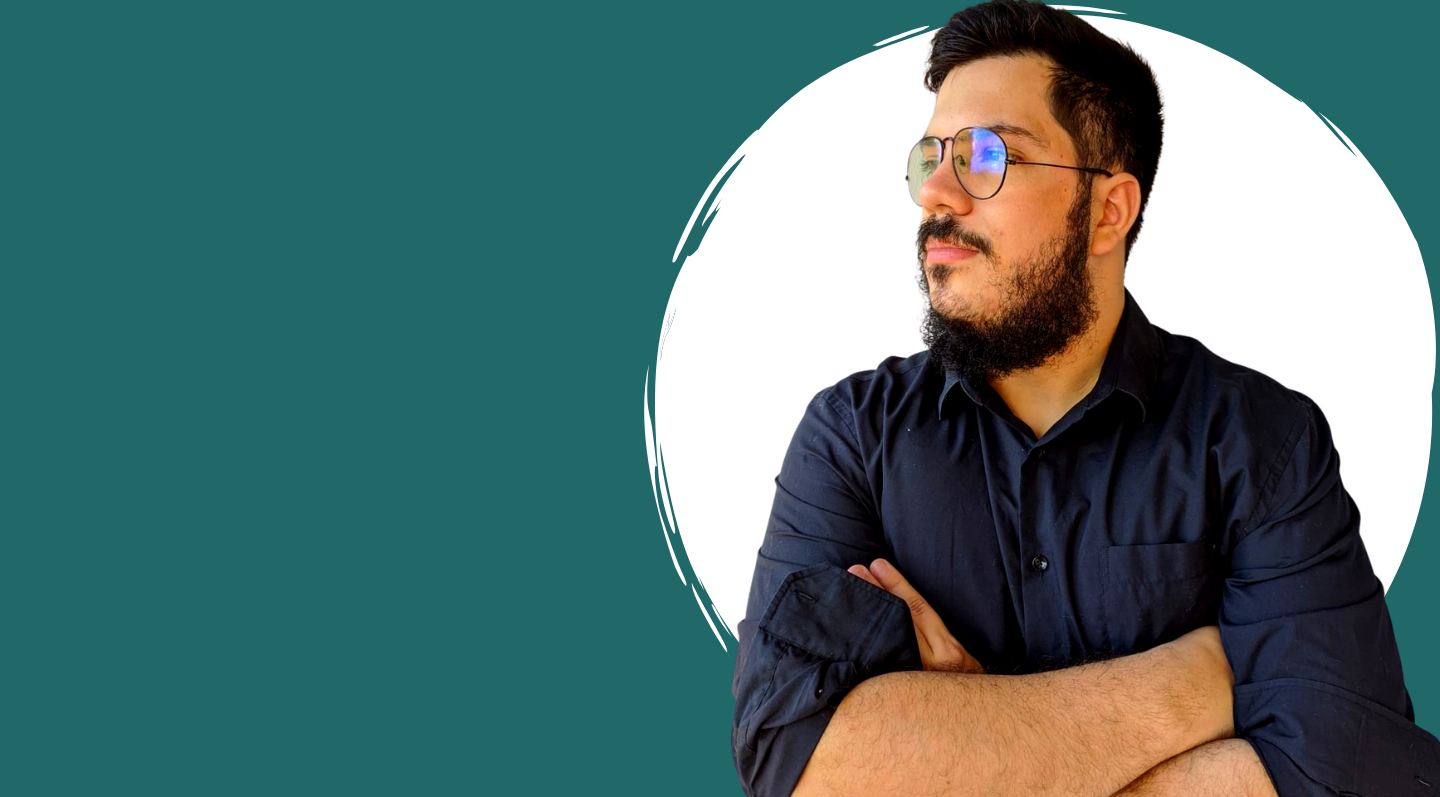
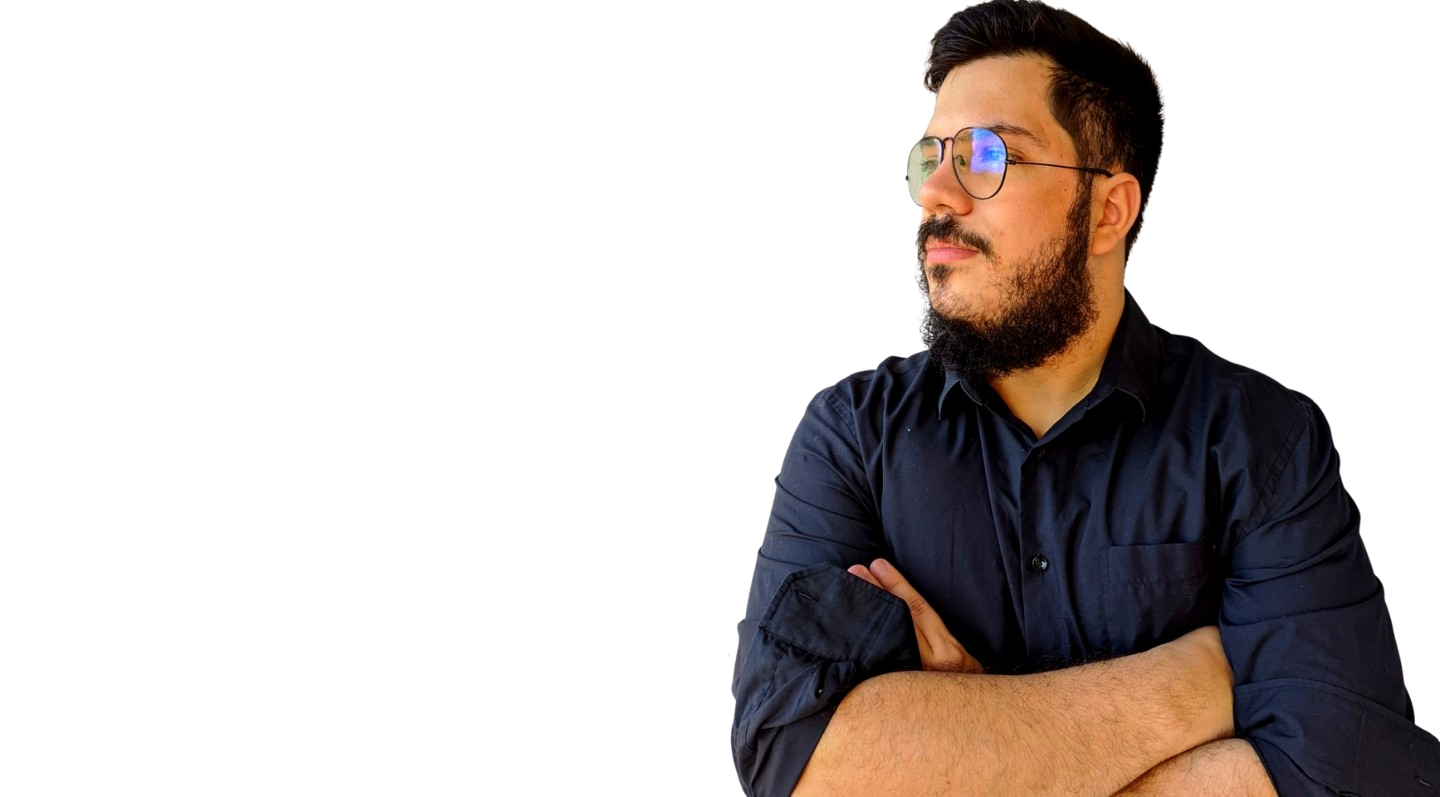
Feat: restyled and add colors variables

diff --git a/index.html b/index.html
@@ -10,6 +10,7 @@
         <link rel="preconnect" href="https://fonts.gstatic.com" crossorigin>
         <link href="https://fonts.googleapis.com/css2?family=Fira+Code:wght@300;500&display=swap" rel="stylesheet">
         <link href="https://fonts.googleapis.com/css2?family=Press+Start+2P&display=swap" rel="stylesheet">
+        <link href="https://fonts.googleapis.com/css2?family=Source+Code+Pro:ital,wght@0,200;0,300;0,400;0,500;0,600;0,700;0,800;0,900;1,200;1,300;1,400;1,500;1,600;1,700;1,800;1,900&display=swap" rel="stylesheet">
         
         <link rel="stylesheet" href="./css/components/main-title.css">
         <link rel="stylesheet" href="./css/components/main-subtitle.css">
@@ -32,6 +33,7 @@
         <link rel="stylesheet" href="./css/components/form-ctc.css">
         <link rel="stylesheet" href="./css/components/main-input.css">
         <link rel="stylesheet" href="./css/components/main-footer.css">
+        <link rel="stylesheet" href="./css/color-variables.css">
     </head>
     
     <body>
@@ -46,7 +48,7 @@
                     </select>
                     <img class="lang-logo" src="./assets/img/brasil.webp">
                 </div>
-                <a class="main-action" href="#skills" lang="en">Skills</a>
+                <a class="main-action" href="#skills">Habilidades</a>
                 <a class="main-action" href="#projects">Projetos</a>
                 <a class="main-action" href="#abt">Sobre</a>
                 <a class="main-action" href="#footer">Contatos</a>
@@ -68,7 +70,7 @@
         </section>
 
         <section class="main-section" id="skills">
-            <h2 class="main-title -second">Skills</h2>
+            <h2 class="main-title -second">Habilidades</h2>
             <div class="wrapper-skill">
 
                 <article class="skill-tec">  
@@ -105,7 +107,7 @@
                     <h2 class="project-name">Portfólio</h2>
                 </a>
                 <a href="https://github.com/Fabianno-Otavio/weather_now">
-                    <figure class="card-prj -blue">
+                    <figure class="card-prj">
                         <img class="imgprj -imgbd" src="./assets/img/weather_now.png" alt="Logo Weather Now">
                     </figure>
                     <h2 class="project-name">Weather Now</h2>

diff --git a/index-en.html b/index-en.html
@@ -10,6 +10,7 @@
         <link rel="preconnect" href="https://fonts.gstatic.com" crossorigin>
         <link href="https://fonts.googleapis.com/css2?family=Fira+Code:wght@300;500&display=swap" rel="stylesheet">
         <link href="https://fonts.googleapis.com/css2?family=Press+Start+2P&display=swap" rel="stylesheet">
+        <link href="https://fonts.googleapis.com/css2?family=Space+Mono:ital,wght@0,400;0,700;1,400;1,700&display=swap" rel="stylesheet">
         
         <link rel="stylesheet" href="./css/components/main-title.css">
         <link rel="stylesheet" href="./css/components/main-subtitle.css">
@@ -32,6 +33,7 @@
         <link rel="stylesheet" href="./css/components/form-ctc.css">
         <link rel="stylesheet" href="./css/components/main-input.css">
         <link rel="stylesheet" href="./css/components/main-footer.css">
+        <link rel="stylesheet" href="./css/color-variables.css">
     </head>
     
     <body>
@@ -105,7 +107,7 @@
                     <h2 class="project-name">Portfolio</h2>
                 </a>
                 <a href="https://github.com/Fabianno-Otavio/weather_now">
-                    <figure class="card-prj -blue">
+                    <figure class="card-prj">
                         <img class="imgprj" src="./assets/img/weather_now.png" alt="Logo Weather Now">
                     </figure>
                     <h2 class="project-name">Weather Now</h2>

diff --git a/css/components/main-section.css b/css/components/main-section.css
@@ -1,18 +1,18 @@
 .main-section{
-    background-color: #B8252B;
-    border-bottom: 10px solid #000;
+    background-color: var(--secondary-color);
+    border-bottom: 10px solid var(--border-section);
     position:relative;
     padding: 50px 50px 116px 50px;
 }
 
 .main-section.-projects{
-    background-color: #216869 ;
-    border-bottom: 10px solid #000;
+    background-color: var(--primary-color) ;
+    border-bottom: 10px solid var(--border-section);
 }
 
 .main-section.-about{
-    background-color: #B8252B;
-    border-bottom:10px solid #000;
+    background-color: var(--secondary-color);
+    border-bottom:10px solid var(--border-section);
     padding:50px 80px 66px 80px;
     position: relative;
     display:block;

diff --git a/css/components/main-button.css b/css/components/main-button.css
@@ -1,8 +1,8 @@
 .main-button{
     display:inline-block;
-    background-color:#F18805;
+    background-color:var(--button-bg);
     padding:18px 20px;
-    box-shadow:5px 5px 0 #000;
+    box-shadow:2px 2px 5px var(--button-shadow);
     margin-right:30px;
     transition: transform 100ms cubic-bezier(.45,.97,.68,2.48);
     font-size:20px;
@@ -11,7 +11,7 @@
 }
 
 .main-button:hover{
-    background-color:#71989B;
+    background-color:var(--button-bg-hover);
     cursor:pointer;
     transform: scale(1.08);
 }

diff --git a/css/components/main-title.css b/css/components/main-title.css
@@ -1,13 +1,15 @@
 .main-title{
-    color:#E4960E;
-    font-size:40px;
-    font-family:"Press Start 2P", Arial, Helvetica, sans-serif;
-    text-shadow: 4px 4px #000;
+    color:var(--title-color);
+    font-size:65px;
+    font-family:"Fira Code", Arial, Helvetica, sans-serif;
+    text-shadow: 4px 4px 5px var(--title-shadow);
     margin-bottom:60px;
+    
 }
 
 .main-title.-second{
+    font-size:30px;
     text-align:center;
     text-shadow:none;
-    color:#FFF;
+    color:var(--title-sc-color);
 }

diff --git a/css/color-variables.css b/css/color-variables.css
@@ -1,0 +1,16 @@
+:root{
+    --header-bg:#0A1045;
+    --primary-color:#2c3559;
+    --secondary-color:#373478;
+    --border-section:#000;
+    --transparent-background:rgba(0, 0, 0, 0.2);
+    --button-bg:#F18805;
+    --button-shadow:#f0b56d;
+    --button-bg-hover:#F06000;
+    --title-color:#014083;
+    --title-shadow:#BBB;
+    --title-sc-color: #FFF;
+    --subtitle-color:#000000;
+    --box-bg:#FFF;
+    --box-shadow:#AAA;
+}

diff --git a/css/components/main-subtitle.css b/css/components/main-subtitle.css
@@ -1,7 +1,7 @@
 .main-subtitle{
-    color: #fff;
-    font-size:30px;
-    font-family:"Press Start 2P", Arial, Helvetica, sans-serif;
-    text-shadow: 4px 4px 0 #000;
+    color: var(--subtitle-color);
+    font-size:40px;
+    font-family:"Source Code Pro", Arial, Helvetica, sans-serif;
+    text-shadow: 4px 4px 5px var(--title-shadow);
     margin-top:28px;
 }

diff --git a/css/components/card-prj.css b/css/components/card-prj.css
@@ -1,11 +1,12 @@
 .card-prj{
     width: 280px;
     height:280px;
-    background-color:#0A1045 ;
-    box-shadow:10px 10px #FFF;
+    background-color:var(--transparent-background) ;
+    box-shadow:5px 5px 10px#000;
     display:flex;
     justify-content: center;
     align-items: center;
+    border-radius:10px;
 }
 
 .card-prj .imgprj{

diff --git a/css/components/skill-tec.css b/css/components/skill-tec.css
@@ -6,10 +6,10 @@
 
 .skill-tec .logo {
     height: 90px;
-    background-color: rgba(260, 140, 50, 0.2);
-    border:1px solid black;
-    box-shadow: 5px 5px black;
+    background-color: var(--transparent-background);   
+    box-shadow: 5px 5px 10px black;
     padding:30px;
+    border-radius:5px;
 }
 
 .skill-tec .title{

diff --git a/css/components/main-box.css b/css/components/main-box.css
@@ -1,9 +1,10 @@
 .main-box{
     display:inline-block;
-    background-color: #292929 ;
-    box-shadow: 10px 10px #000;
+    background-color: var(--box-bg) ;
+    box-shadow: 5px 5px 10px var(--box-shadow);
     padding:42px 44px;
     text-align: center;
+    border-radius:15px;
 }
 
 .main-box .title{

diff --git a/css/components/button-arrow.css b/css/components/button-arrow.css
@@ -1,7 +1,7 @@
 .button-arrow{
     width:50px;
     height:50px;
-    background-color: #F18805;
+    background-color: var(--transparent-background);
     position: absolute;
     box-shadow: 5px 5px #000;
     display: flex;

diff --git a/css/components/main-banner.css b/css/components/main-banner.css
@@ -1,5 +1,6 @@
 .main-banner{
     box-sizing: border-box;
+    background-color: var(--primary-color);
     background-image: url(../../assets/img/background.png);
     background-repeat: no-repeat;
     background-size: 100%;
